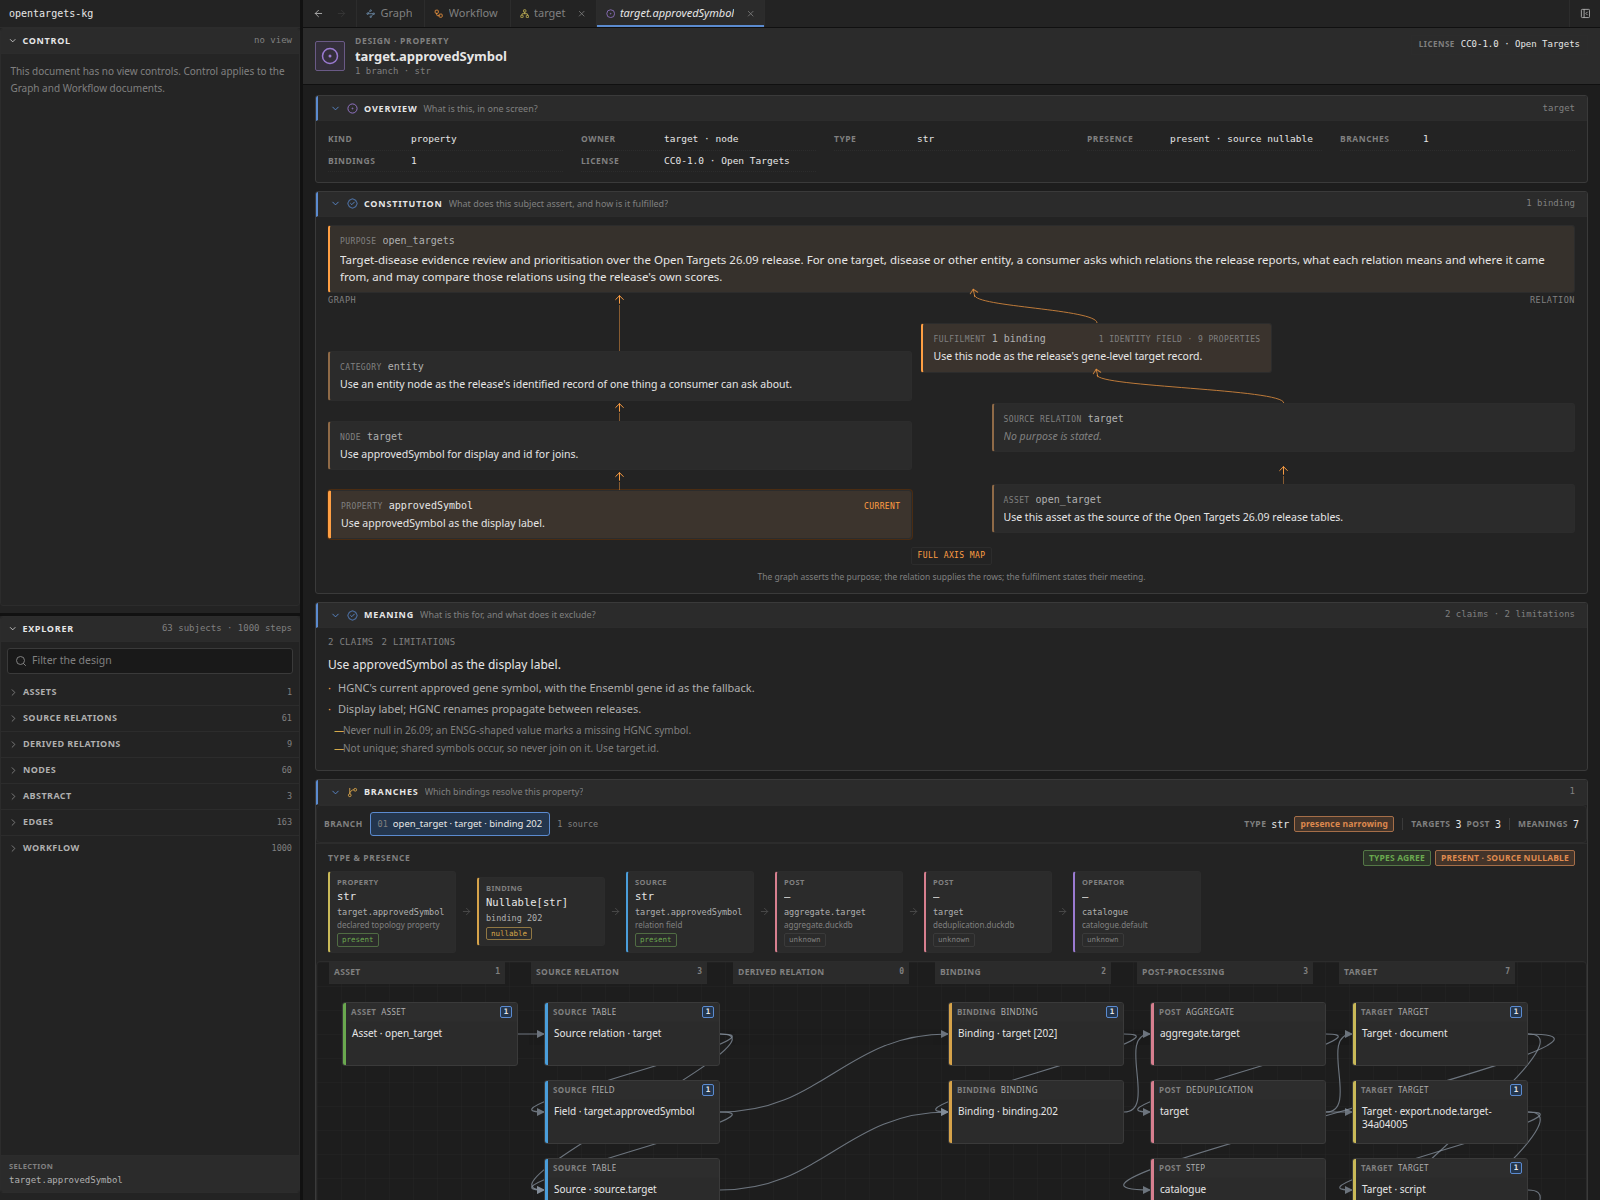
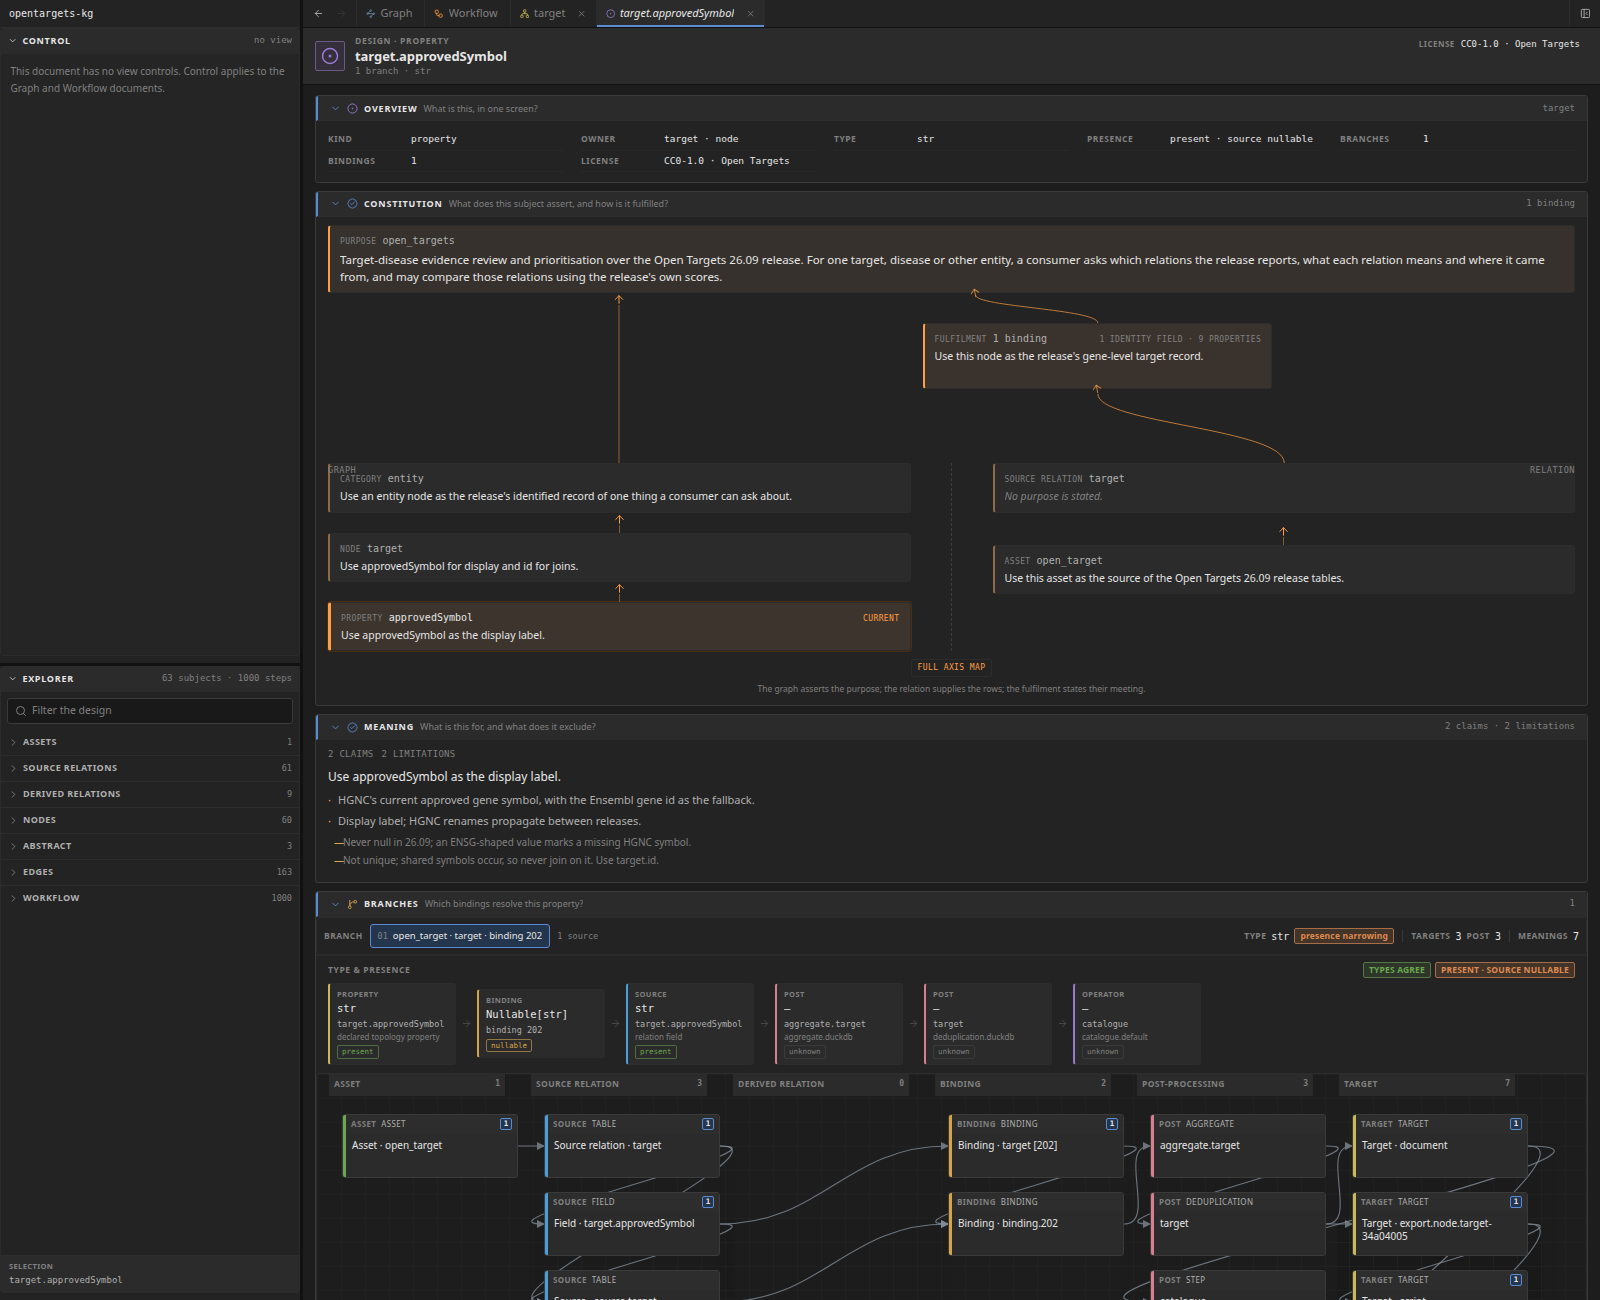
Restore the axis separator and sweep the fulfilment arrow

diff --git a/viewer/shared/design/Constitution.tsx b/viewer/shared/design/Constitution.tsx
@@ -128,12 +128,9 @@ function Box({
   );
 }
 
-function Arrow({ tall = false }: { tall?: boolean }) {
+function Arrow() {
   return (
-    <span
-      className={cx(styles.constitutionArrow, tall && styles.constitutionArrowTall)}
-      aria-hidden
-    >
+    <span className={styles.constitutionArrow} aria-hidden>
       <ArrowUp size={13} strokeWidth={1.8} />
     </span>
   );
@@ -165,7 +162,7 @@ function Branch({
   onHover,
   onLeave,
   onOpen,
-  tallFirst = false,
+  noFirstArrow = false,
 }: {
   side: "graph" | "relation";
   label: string;
@@ -176,16 +173,21 @@ function Branch({
   onHover(node: ConstitutionNode, element: HTMLElement): void;
   onLeave(): void;
   onOpen?(target: ConstitutionTarget): void;
-  tallFirst?: boolean;
+  noFirstArrow?: boolean;
 }) {
   return (
     <div className={styles.constitutionBranch} data-side={side}>
+      {side === "graph" ? (
+        <span className={styles.constitutionRise} aria-hidden>
+          <ArrowUp size={13} strokeWidth={1.8} />
+        </span>
+      ) : null}
       <span className={styles.constitutionBranchLabel}>{label}</span>
       <div className={styles.constitutionStack}>
         {nodes.length ? (
           nodes.map((node, index) => (
             <Fragment key={boxKey(node)}>
-              <Arrow tall={tallFirst && index === 0} />
+              {noFirstArrow && index === 0 ? null : <Arrow />}
               <Box
                 node={node}
                 hovered={hoveredKey === boxKey(node)}
@@ -208,9 +210,9 @@ function Branch({
  * The subject as a constitution: one purpose across the top, the graph and
  * relation axes below it, and the binding as the relation side's fulfilment.
  *
- * The graph and relation chains read upward toward the purpose. The fulfilment
- * box sits on the right side above the relation axis, inset from it; the arrow
- * from fulfilment to purpose and the arrow from the relation to fulfilment
+ * The fulfilment box sits on the right side above the separator; the separator
+ * starts below it so the graph and relation axes lie below. The arrow from
+ * fulfilment to purpose and the long arrow from the relation to fulfilment
  * both bend left. Hovering or focusing a box reveals its full meaning in a
  * portal, because the band clips overflow.
  */
@@ -337,25 +339,10 @@ export function Constitution({
         />
       </div>
 
-      <div
-        className={styles.constitutionBranches}
-        data-count="2"
-      >
-        <Branch
-          side="graph"
-          label="Graph"
-          nodes={model.graph}
-          empty="No record is bound."
-          hoveredKey={hoveredKey}
-          hoverCardId={hoverCardId}
-          onHover={openHover}
-          onLeave={scheduleClose}
-          onOpen={onOpen}
-          tallFirst
-        />
-
-        <div className={styles.constitutionBranch} data-side="relation">
-          <span className={styles.constitutionBranchLabel}>Relation</span>
+      <div className={styles.constitutionFulfilmentRow}>
+        <div className={styles.constitutionRowSpacer} />
+        <div className={styles.constitutionRowSpacer} />
+        <div className={styles.constitutionFulfilmentCell}>
           <CurvedArrow from={18} to={-3} />
           <div className={styles.constitutionFulfilmentBox}>
             <Box
@@ -377,7 +364,34 @@ export function Constitution({
               onOpen={onOpen}
             />
           </div>
-          <CurvedArrow from={50} to={18} />
+        </div>
+      </div>
+
+      <div
+        className={styles.constitutionBranches}
+        data-count="2"
+      >
+        <Branch
+          side="graph"
+          label="Graph"
+          nodes={model.graph}
+          empty="No record is bound."
+          hoveredKey={hoveredKey}
+          hoverCardId={hoverCardId}
+          onHover={openHover}
+          onLeave={scheduleClose}
+          onOpen={onOpen}
+          noFirstArrow
+        />
+        <div className={styles.constitutionSeam} aria-hidden>
+          <span className={styles.constitutionSeamLine} />
+        </div>
+
+        <div className={styles.constitutionBranch} data-side="relation">
+          <div className={styles.constitutionRelationRise} aria-hidden>
+            <CurvedArrow from={50} to={18} />
+          </div>
+          <span className={styles.constitutionBranchLabel}>Relation</span>
           <span
             className={cx(
               styles.constitutionBranchLabel,

diff --git a/viewer/shared/design/design.module.css b/viewer/shared/design/design.module.css
@@ -403,13 +403,80 @@ button.constitutionName:focus-visible {
 .constitutionBranches {
   position: relative;
   display: grid;
-  grid-template-columns: minmax(0, 1fr) minmax(0, 1fr);
-  column-gap: 80px;
+  grid-template-columns: minmax(0, 1fr) 46px minmax(0, 1fr);
+  column-gap: 18px;
+}
+
+.constitutionSeam {
+  display: flex;
+  justify-content: center;
+}
+
+.constitutionSeamLine {
+  width: 0;
+  border-left: 1px dashed var(--color-line-strong);
+  opacity: 0.7;
+}
+
+.constitutionFulfilmentRow {
+  display: grid;
+  grid-template-columns: minmax(0, 1fr) 46px minmax(0, 1fr);
+  column-gap: 18px;
+  height: 170px;
+}
+
+.constitutionFulfilmentCell {
+  display: flex;
+  min-width: 0;
+  flex-direction: column;
 }
 
 .constitutionFulfilmentBox {
   width: 60%;
   margin-left: -12%;
+}
+
+.constitutionFulfilmentBox .constitutionBox {
+  height: 66px;
+  max-height: 66px;
+}
+
+.constitutionRise {
+  position: absolute;
+  bottom: 100%;
+  left: 50%;
+  display: flex;
+  height: 170px;
+  flex-direction: column;
+  align-items: center;
+  color: var(--color-selection);
+  transform: translateX(-50%);
+}
+
+.constitutionRise::before {
+  width: 1px;
+  flex: 1;
+  background: currentColor;
+  content: "";
+  opacity: 0.5;
+}
+
+.constitutionRise svg {
+  flex: none;
+  order: -1;
+  margin-bottom: -1px;
+}
+
+.constitutionRelationRise {
+  position: absolute;
+  bottom: 100%;
+  left: 0;
+  width: 100%;
+  height: 74px;
+}
+
+.constitutionRelationRise .constitutionCurve {
+  height: 100%;
 }
 
 .constitutionCurve {
@@ -500,9 +567,6 @@ button.constitutionName:focus-visible {
   margin-bottom: -1px;
 }
 
-.constitutionArrowTall {
-  height: 58px;
-}
 
 .constitutionEmpty {
   margin: 0;
@@ -554,16 +618,42 @@ button.constitutionName:focus-visible {
 }
 
 @media (max-width: 900px) {
+  .constitutionFulfilmentRow {
+    display: block;
+    height: auto;
+  }
+
+  .constitutionRowSpacer {
+    display: none;
+  }
+
+  .constitutionFulfilmentCell {
+    display: block;
+  }
+
+  .constitutionFulfilmentBox {
+    width: 100%;
+    margin-left: 0;
+  }
+
+  .constitutionFulfilmentBox .constitutionBox {
+    height: auto;
+    max-height: 84px;
+  }
+
   .constitutionBranches {
     grid-template-columns: minmax(0, 1fr);
     row-gap: 12px;
   }
 
-  .constitutionCurve {
+  .constitutionRise,
+  .constitutionRelationRise,
+  .constitutionCurve,
+  .constitutionSeam {
     display: none;
   }
 
-  .constitutionBranch[data-side="relation"] > .constitutionBranchLabel:first-child {
+  .constitutionBranch[data-side="relation"] > .constitutionBranchLabel:not(.constitutionMobileBranchLabel) {
     display: none;
   }
 
@@ -572,15 +662,6 @@ button.constitutionName:focus-visible {
     position: static;
     align-self: flex-start;
     margin: 2px 0;
-  }
-
-  .constitutionFulfilmentBox {
-    width: 100%;
-    margin-left: 0;
-  }
-
-  .constitutionArrowTall {
-    height: 20px;
   }
 
   .constitutionChildren {

diff --git a/viewer/shared/design/constitution.ts b/viewer/shared/design/constitution.ts
@@ -5,8 +5,9 @@
  * The purpose is the root. The graph branch holds the record-axis purposes
  * that narrow it; the relation branch holds the provenance that supplies it,
  * from the relation down to the asset. The fulfilment box sits on the right,
- * above the relation axis and inset from it. A level keeps its own meaning, so
- * the two branches show derivation and supply, never inherited text.
+ * above the separator and inset above the relation axis. A level keeps its own
+ * meaning, so the two branches show derivation and supply, never inherited
+ * text.
  */
 
 import {

diff --git a/viewer/DETAIL_CONTENT.md b/viewer/DETAIL_CONTENT.md
@@ -16,7 +16,7 @@ includes by their immediate importance to a reader; it never renames one. A
 | Order | Section | Question it answers | Content |
 | --- | --- | --- | --- |
 | 1 | **Overview** | What is this, in one screen? | One fact grid: kind, labels, identity, owner or endpoints, counts and licence. |
-| 2 | **Constitution** | What does this subject assert, and how is it fulfilled? | One wide purpose at the top; the Fulfilment box on the right side, slightly inset above the relation axis; the Graph chain on the left and the Relation chain on the right. The arrow from Fulfilment to the purpose and the arrow from the relation to Fulfilment both curve left. Arrows point up to the level each box is accountable to; the relation's provenance branches sit below it. Each box clamps its purpose to two lines; hovering or focusing it reveals the full meaning, and a box label opens its document. The Fulfilment box states the binding count; identity fields and coverage appear when the box has room and always in the full axis map. A grouped branch shows the first item and `+N`; one control expands the full axis map. |
+| 2 | **Constitution** | What does this subject assert, and how is it fulfilled? | One wide purpose at the top; the Fulfilment box on the right side, slightly inset above the relation axis; the Graph chain on the left and the Relation chain on the right. The separator starts below Fulfilment, so the axes lie below it and Fulfilment above it. The arrow from Fulfilment to the purpose and the arrow from the relation to Fulfilment both curve left. Arrows point up to the level each box is accountable to; the relation's provenance branches sit below it. Each box clamps its purpose to two lines; hovering or focusing it reveals the full meaning, and a box label opens its document. The Fulfilment box states the binding count; identity fields and coverage appear when the box has room and always in the full axis map. A grouped branch shows the first item and `+N`; one control expands the full axis map. |
 | 3 | **Meaning** | What is this for, and what does it exclude? | The full meaning of the current subject: purpose, the limitations it owns, then contextless claims; compact counts in the header. |
 | 4 | **Sources** | Where does this value come from? | Assets, source relations and derived relations, as navigable references with counts. |
 | 5 | **Build steps** | How is this built? | The narrowed workflow graph of the steps that produce the subject. |
@@ -86,10 +86,11 @@ to.
   shows its asset. The current declaration is marked when the subject is a
   relation or asset.
 - **Fulfilment** is the box on the right side, above the relation axis and
-  slightly inset from it. It is not part of either axis. Its arrow to the
-  purpose and the relation's arrow to it both bend left. It states the binding
-  count; identity fields and coverage appear when the box has room and always
-  in the full axis map. The graph asserts, the relation supplies, and the
+  slightly inset from it. It is not part of either axis. The separator starts
+  below it, so the axes lie below the separator and Fulfilment above it. Its
+  arrow to the purpose and the relation's long arrow to it both bend left. It
+  states the binding count; identity fields and coverage appear when the box
+  has room and always in the full axis map. The graph asserts, the relation supplies, and the
   Fulfilment box states their meeting.
 - A branch with many records, relations or assets shows the first item and
   `+N`, so the card stays compact. **Full axis map** expands the same data into

diff --git a/viewer/HIERARCHY.md b/viewer/HIERARCHY.md
@@ -57,7 +57,7 @@ position.
 | **Step** | one workflow step's instruction, payload, openings, connections and blueprint bindings on the same detail surface as node and subject documents; opened from the workflow section of Explorer |
 | **Source relation** | a source relation's identity, contract, owning asset, columns, indented expression outline from the relation back through its fields to the asset, its Constitution (purpose root, bound records, fulfilment box above the relation axis and inset from it, relation and asset branches) and its full meaning in the Meaning band; the effective licence is in the banner |
 | **Derived relation** | a derived relation's identity, contract, columns, row source, indented expression outline from each column back through its operators and row source to the asset, its Constitution (purpose root, bound records, fulfilment box above the relation axis and inset from it, relation and asset branches) and its full meaning in the Meaning band; the effective licence is in the banner |
-| **Subject** (node, edge, property, asset, abstract) | provenance assets, source relations and derived relations first for node, edge and property; asset and relation references are navigable to their own documents; the effective licence is in the banner; a pannable, zoomable narrowed workflow graph and an indented expression outline of the actual field and operator chain from the current item back to its provenance assets follows, then the Constitution tree (wide purpose root, graph branch from category to component to property, fulfilment box above the relation axis and inset from it, relation branch with its provenance branches below, curved arrows into fulfilment and optional full axis map; hovering a box shows its full meaning, and a label opens that level), the current subject's full Meaning, properties and, for a property, provenance lanes and type/presence |
+| **Subject** (node, edge, property, asset, abstract) | provenance assets, source relations and derived relations first for node, edge and property; asset and relation references are navigable to their own documents; the effective licence is in the banner; a pannable, zoomable narrowed workflow graph and an indented expression outline of the actual field and operator chain from the current item back to its provenance assets follows, then the Constitution tree (wide purpose root, graph branch from category to component to property, fulfilment box above the separator and inset above the relation axis, separator between the axes below it, relation branch with its provenance branches below, curved arrows into fulfilment and optional full axis map; hovering a box shows its full meaning, and a label opens that level), the current subject's full Meaning, properties and, for a property, provenance lanes and type/presence |
 
 A node or property click in the canvas only changes transient inspection.
 Single-clicking an Explorer row opens or reuses one preview tab; double-clicking

diff --git a/viewer/DESIGN_LANGUAGE.md b/viewer/DESIGN_LANGUAGE.md
@@ -83,9 +83,10 @@ A kind includes or omits a section; it never renames one for itself.
 - **Constitution** is the two-axis tree. The wide purpose is the root; the
   Graph branch is the record axis, ordered from category to component to
   property; the Relation branch is the relation axis. The Fulfilment box sits
-  on the right side above the relation axis, slightly inset from it; its arrow
-  to the purpose and the relation's arrow to it both bend left. The relation
-  axis carries its provenance branches below its relation. Each box states only
+  on the right side above the separator; the separator starts below it so the
+  axes lie below the separator. Fulfilment is slightly inset above the relation
+  axis; its arrow to the purpose and the relation's long arrow to it both bend
+  left. The relation axis carries its provenance branches below its relation. Each box states only
   its own purpose and clamps; arrows point up to the level it is accountable
   to. Hovering or focusing a box reveals its full meaning in a
   portal card; a box label opens that level's document. A grouped branch shows

diff --git a/AGENTS.md b/AGENTS.md
@@ -155,9 +155,9 @@ missing, not the code.
   question; every further layer is revealed by a named control, and raw JSON is
   not a default surface.
 - A subject that carries purpose, fulfilment and provenance is one constitution:
-  purpose at the root, fulfilment above the relation axis and inset from it,
-  and the graph and relation axes below. The axes are parallel lanes, not a
-  Cartesian plot; fulfilment is neither axis.
+  purpose at the root, fulfilment above the separator and inset above the
+  relation axis, and the graph and relation axes below the separator. The axes
+  are parallel lanes, not a Cartesian plot; fulfilment is neither axis.
 - A repeated item renders its units compactly. A heading is structural, not per
   unit: a table cell or list row does not repeat the section chrome.
 - Present the design before an author workflow: a canonical view carries the
